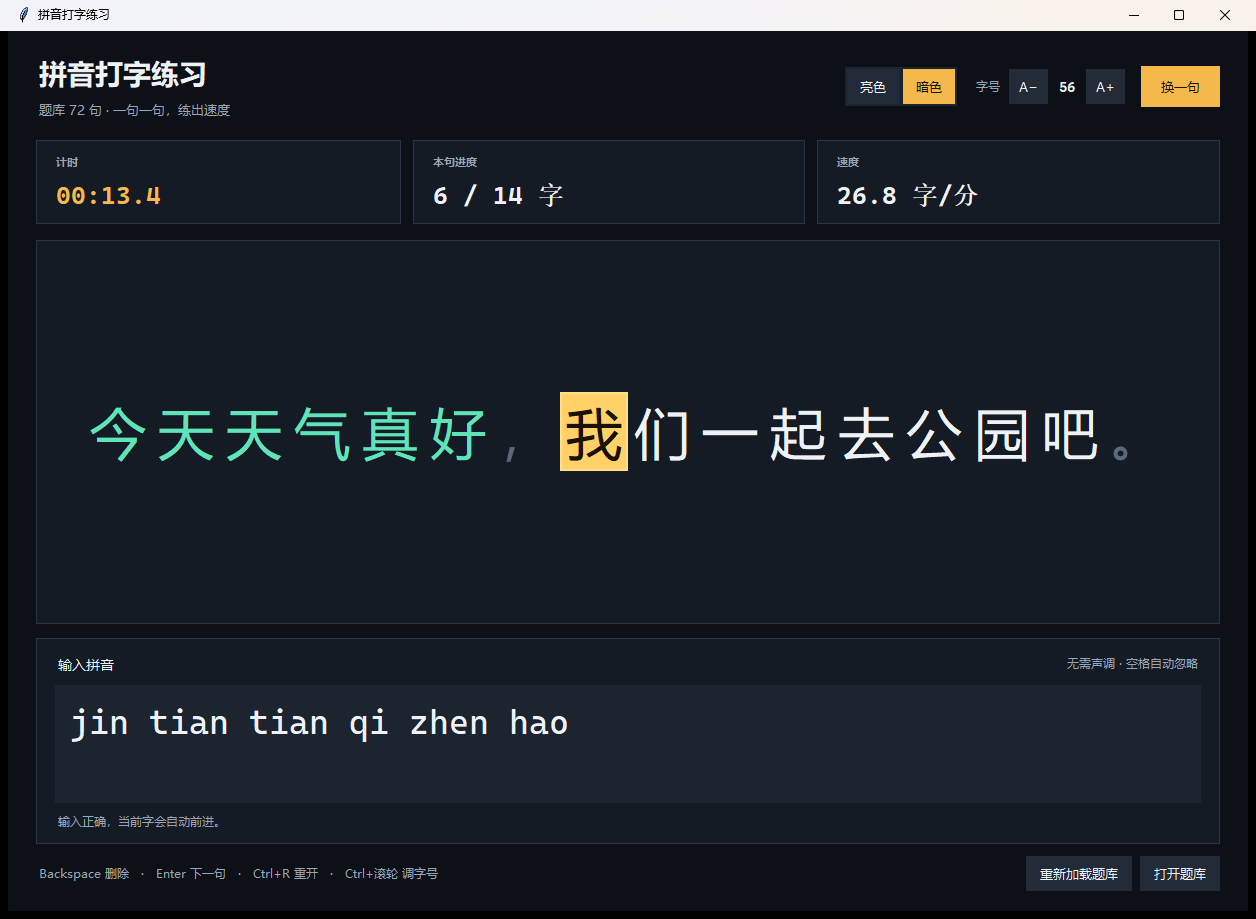
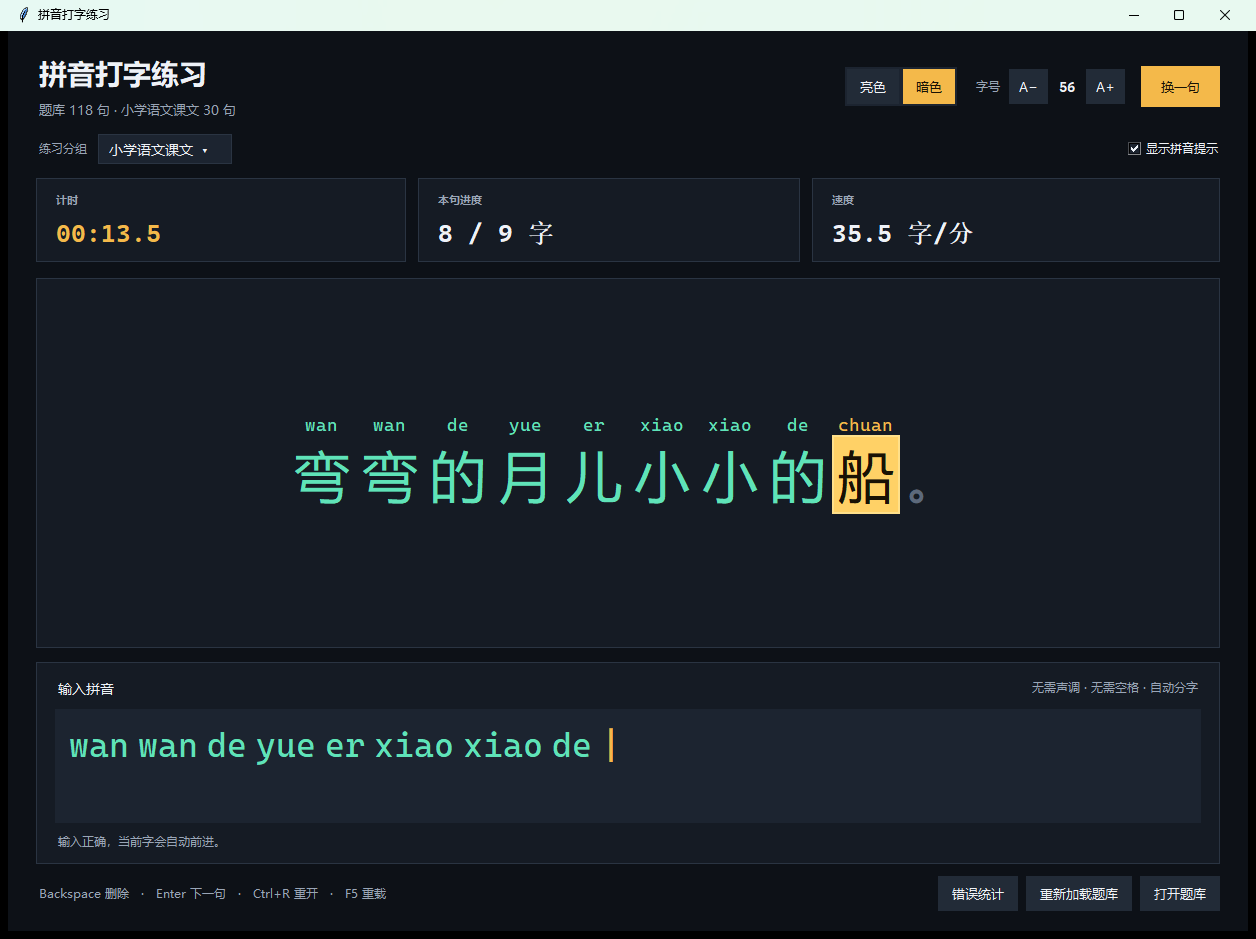
docs: update features screenshots and statistics guide

diff --git a/README.md b/README.md
@@ -1,21 +1,27 @@
 # 拼音打字练习
 
-一个用 Python + Tkinter 编写的整句拼音打字练习工具。上方显示中文句子，当前正在输入的字会高亮；下方输入整句拼音，完成后自动显示用时和速度。支持亮色/暗色主题与可调字号。
+一个用 Python + Tkinter 编写的整句拼音打字练习工具。上方显示中文句子，当前正在输入的字会高亮；下方输入整句拼音，完成后自动显示用时和速度。支持分组练习、可选拼音提示、错字统计、亮色/暗色主题和可调字号。
 
-| 亮色主题 | 暗色主题 |
+| 亮色主题 | 暗色主题（开启拼音提示） |
 |---|---|
 | ![亮色主题](docs/theme-light.png) | ![暗色主题](docs/theme-dark.png) |
+
+![错字统计窗口](docs/stats-window.png)
 
 ## 功能
 
 - 整句连续输入拼音，不需要逐字回车。
+- **不用输入空格**；输入区会按目标字音自动分字，在拼音之间留出小间距。
 - 当前字高亮，已完成的字变绿，标点自动跳过。
 - 输错时输入框变红，按 Backspace 修改即可。
 - 第一次输入字母时开始计时，整句完成时停止。
 - 实时显示进度和速度（字/分），完成后按 Enter 进入下一句。
-- 内置 72 句练习，随机不重复；可随时编辑题库并重新加载。
+- 练习分组下拉框，可只练某一个分组，也可以练全部分组。
+- 可选“显示拼音提示”，在汉字上方显示正确拼音。
+- 未开启拼音提示时自动记录打错的汉字和时间，按今天、本周、本月统计高频错字。
+- 118 句内置练习，覆盖日常生活、自然、学习工作、旅行美食、成语诗词、绕口令、生活感悟和小学语文课文。
 - 亮色 / 暗色两种配色，设置会自动保存。
-- 字号可在 32–96 之间调整，默认 56，适合大屏练习。
+- 字号可在 32–96 之间调整，默认 56；句子过长时句子区可滚动，不挤压输入区。
 - 拼音按词组上下文生成，能正确处理“银行、音乐、重庆、山重水复”等多音字。
 
 ## 运行环境
@@ -52,12 +58,61 @@ pixi add pypinyin
 
 1. 启动后用英文输入状态直接输入当前句子的拼音。
 2. **不需要输入声调**，例如“你好”输入 `ni hao` 或 `nihao`。
-3. 空格、撇号和英文标点会自动忽略；中文标点不用输入，输入到前一个字后会自动跳过。
-4. `ü` 可以输入为 `v`，例如“绿色”输入 `lvse`。
-5. 当前字显示为亮黄色底块；输错时下方状态会提示，按 Backspace 删除错误字母。
-6. 整句输入完成后计时停止，按 Enter 开始下一句。
+3. **不需要输入空格**。下方会自动分成 `ni hao` 这样的字音组，方便区分。
+4. 中文标点不用输入，输入到前一个字后会自动跳过。
+5. `ü` 可以输入为 `v`，例如“绿色”输入 `lvse`。
+6. 当前字显示为亮黄色底块；输错时下方状态会提示，按 Backspace 删除错误字母。
+7. 整句输入完成后计时停止，按 Enter 开始下一句。
 
 > 如果输入中文没有反应，请把输入法切换到英文模式。
+
+## 分组练习
+
+顶部“练习分组”下拉框支持：
+
+- `全部句子`：从整个题库中随机练习。
+- 任意一个分组：只从该分组中随机练习，例如只练“日常生活”或“小学语文课文”。
+
+切换分组会立即开始该分组的新句子，所选分组会保存到 `.settings.json`，下次启动继续使用。
+
+当前题库共 **118 句、9 个分组**：
+
+| 分组 | 句数 |
+|---|---:|
+| 日常生活 | 13 |
+| 自然四季 | 13 |
+| 学习与工作 | 13 |
+| 旅行与美食 | 13 |
+| 成语与诗词 | 12 |
+| 绕口令与趣味 | 8 |
+| 生活感悟 | 10 |
+| 更多练习 | 6 |
+| 小学语文课文 | 30 |
+
+## 拼音提示与错字统计
+
+### 显示拼音提示
+
+勾选顶部的“显示拼音提示”后，每个汉字上方会显示正确的无声调拼音：
+
+- 当前字的拼音用强调色显示。
+- 已完成的字拼音变绿，未完成的字为灰色。
+- 标点上方留空，不参与输入。
+
+开启拼音提示时，**错字统计会暂停记录**，避免照抄提示时产生无意义的统计。
+
+### 错字统计
+
+关闭拼音提示后：
+
+- 当输入到某个字时打错拼音，会记录当前汉字、目标拼音、已输入内容和时间。
+- 同一次错误不会因为继续按键而重复记录；退格改正后再次打错会重新记录。
+- 点击底部“错误统计”按钮，可查看今天、本周、本月的高频错字。
+- 每个时间段显示错误次数和最后一次出错时间；按错误次数从高到低排列，最多显示 10 个汉字。
+- “本周”从周一开始。
+- 统计窗口中可以点击“清空统计”清除全部记录。
+
+统计只保存在本机项目目录的 `.stats.json` 中，不会上传到任何地方。该文件已被 Git 忽略。
 
 ## 字号与主题
 
@@ -65,22 +120,30 @@ pixi add pypinyin
 - 也可以按 `Ctrl + 鼠标滚轮`，或 `Ctrl+=` / `Ctrl+-`。
 - 点击“亮色”/“暗色”切换配色，选择会保存在 `.settings.json` 中，下次启动继续使用。
 - 拼音输入区字号会跟随中文字号自动缩放。
+- 大字号或开启拼音提示后，如果句子超过卡片高度，句子区会出现细滚动条；输入区始终保留。
 
 ## 编辑题库
 
 题库文件是项目根目录的 `sentences.txt`，UTF-8 编码，一行一句：
 
 ```text
-# 以 # 开头的是注释，空行会被忽略
+# ---------- 日常生活 ----------
 今天天气真好，我们一起去公园散步吧。
-窗外的雨声让我想起小时候的夏天。
+# [小学语文课文]
+弯弯的月儿小小的船。
 ```
 
-添加或修改后，回到应用中点击“重新加载题库”（或按 `F5`）。也可以点击“打开题库”直接编辑。
+分组标题支持两种写法：
 
+- `# ---------- 分组名 ----------`
+- `# [分组名]`
+
+其他以 `#` 开头的行是普通注释，空行会被忽略。添加或修改后，回到应用中点击“重新加载题库”（或按 `F5`）。
+
+- 没有分组标题的句子会进入“未分组”。
 - 重复句子和无法解析的行会被跳过，并在加载时提示。
 - 建议一句一行，使用正常中文标点，pypinyin 能更准确地进行词组切分。
-- 题库内置日常、自然、学习工作、旅行美食、成语诗词、绕口令和生活感悟等分类，当前共 72 句。
+- 点击“打开题库”可以直接编辑。
 
 ## 快捷键
 
@@ -98,19 +161,21 @@ pixi add pypinyin
 ```text
 pinyin-typing/
 ├─ main.py              # 入口、DPI 和错误提示
-├─ app.py               # Tkinter 界面、主题、计时器
-├─ trainer.py           # 拼音生成、输入判定、题库解析
-├─ sentences.txt        # 可直接编辑的题库
-├─ docs/                # 亮色/暗色界面预览
+├─ app.py               # Tkinter 界面、分组、提示、主题、计时器
+├─ trainer.py           # 拼音生成、输入判定、分组解析、自动分字
+├─ stats.py             # 错字记录与今天/本周/本月聚合
+├─ sentences.txt        # 118 句、9 个分组的题库
+├─ docs/                # 界面与统计窗口预览
 ├─ tests/
-│  └─ test_trainer.py   # 22 个核心逻辑测试
+│  ├─ test_trainer.py   # 拼音、分组、自动分字测试
+│  └─ test_stats.py     # 错字统计与时间范围测试
 ├─ run.bat              # 正常启动（pythonw）
 ├─ run-debug.bat        # 调试启动（显示控制台）
 ├─ requirements.txt
 └─ .gitignore
 ```
 
-`.settings.json` 是运行后自动生成的本地配置，已被 Git 忽略。
+`.settings.json` 和 `.stats.json` 是运行后自动生成的本地文件，已被 Git 忽略。
 
 ## 测试
 
@@ -119,4 +184,4 @@ cd C:\Users\kaiwen\Documents\deepseek-harness\default-workspace\pinyin-typing
 & "C:\py\.pixi\envs\default\python.exe" -m unittest discover -s tests -v
 ```
 
-当前测试覆盖句子解析、多音字、标点跳过、输入规范化、错误定位、计时格式、随机不重复和题库加载。
+当前共 34 个测试，覆盖拼音解析、多音字、标点跳过、输入规范化、自动分字、分组解析、错字统计时间范围、计时格式、随机不重复和题库加载。
